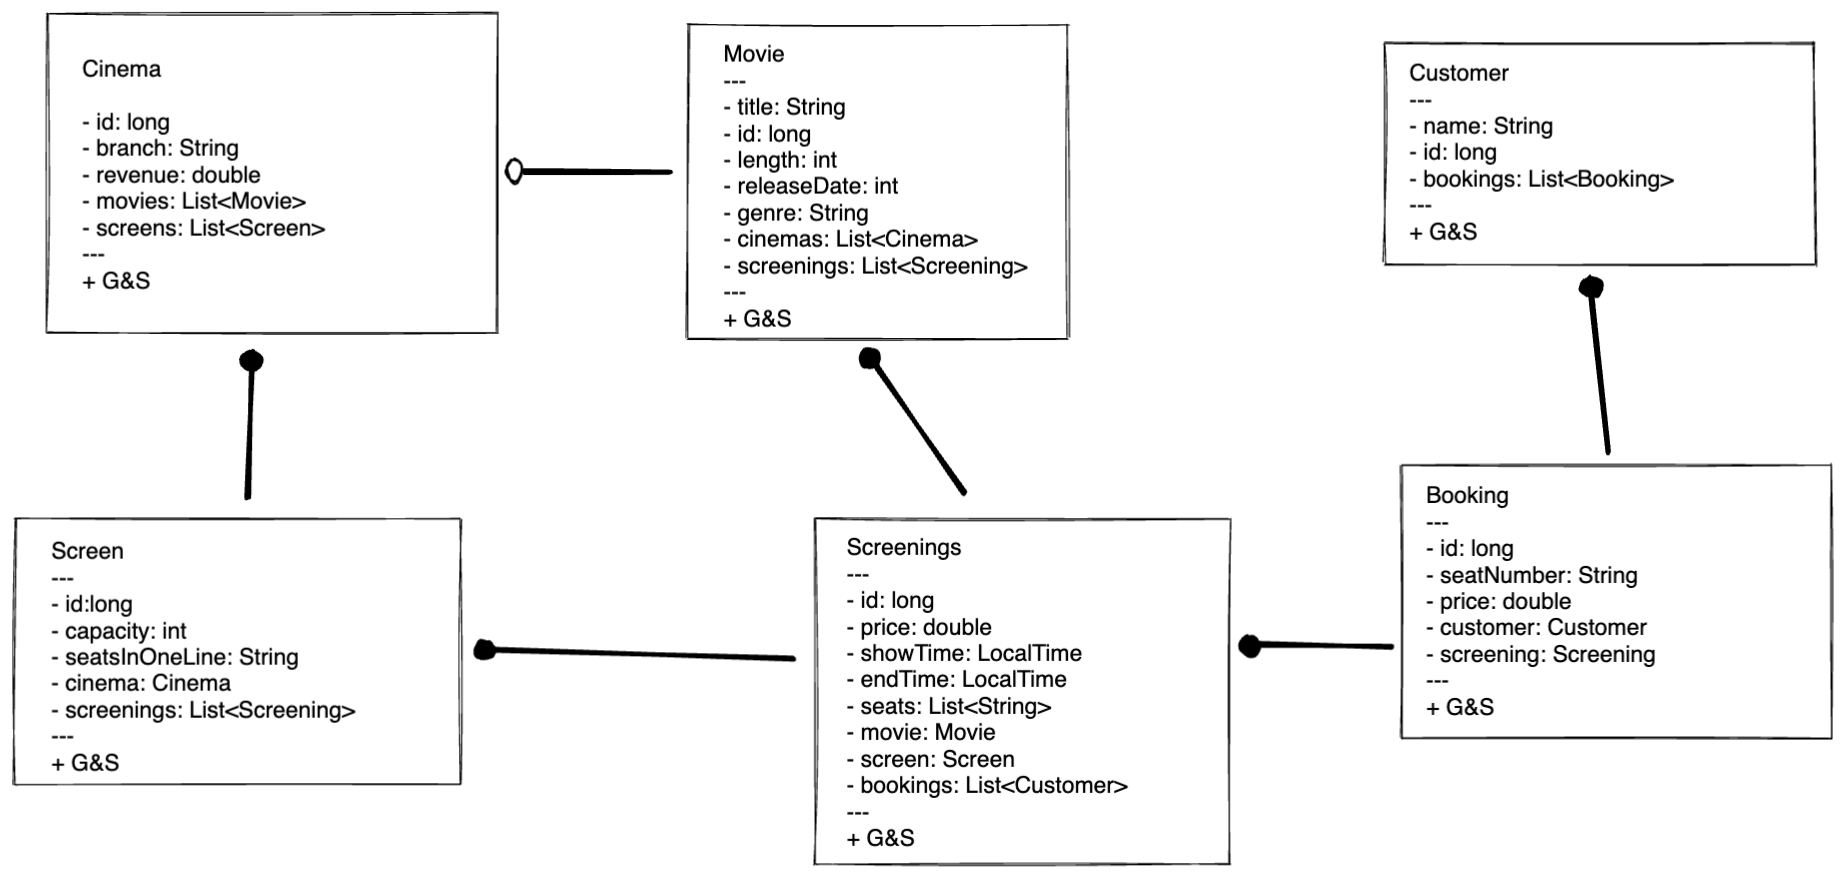
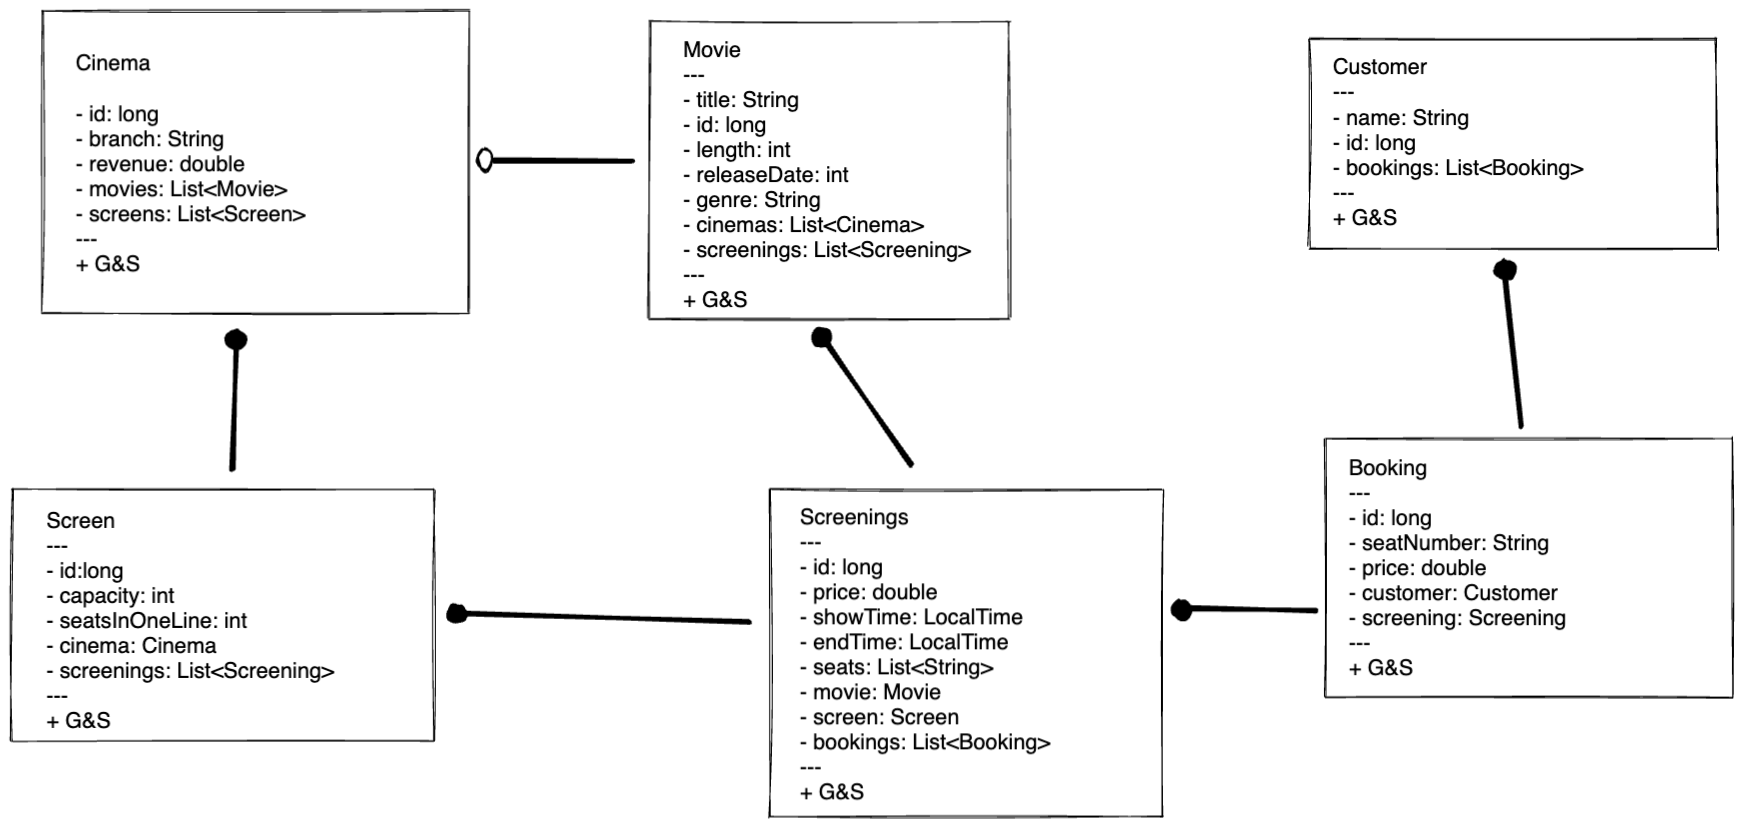
debug

diff --git a/README.md b/README.md
@@ -91,9 +91,10 @@ It includes 5x models classes:
 
 What Yongran has expanded on this API:
 
+- Handle multiple cinemas with different branches
 - Change `Cinema` and `Movie` relationship to many-to-many
 - Add `showTime` and `endTime` properties in `Screening` model
-- Create `Booking` model to handle price for a ticket and seats
+- Create `Booking` model to handle seats and price for a ticket
 - Add `revenue` property in cinema
 - Ticket Authentication
 
@@ -112,10 +113,11 @@ Notes:
 | `.../cinemas` |`GET` | Get All Cinemas |
 |`.../cinemas/{id}`| `GET` | Get Cinema By ID |
 |`.../cinemas/branch/{branch}`| `GET` | Get Cinema By Branch |
-|`.../cinemas/movies` |`GET` | Get All Movies  |
-|`.../cinemas/movies/{id}`|`GET`| Get Movie By ID|
+|`.../cinemas/{id}/movies` |`GET` | Get All Movies  |
+|`.../cinemas/{id}/movies/{movieId}`|`GET`| Get Movie By ID|
 |`.../cinemas/{id}/movies?genre={genre}`|`GET`| Get Movie By Genre |
 |`.../cinemas/{id}/movies?title={title}`|`GET`| Get Movie By Title|
+|`.../cinemas/{id}/screens`|`GET`| Get All Screens by Cinema ID |
 |`.../cinemas/{id}/revenue`|`GET`| Get Total Revenue |
 |`.../cinemas/{cinemaId}/authentication/{movieId}?customerId={customerId}&screeningId={screeningId}&seat={seat}`|`GET`| Authenticate Ticket |
 | `.../cinemas/{id}/movies/{movieId}`  | `DELETE`  | Cancel Movie  |
@@ -129,16 +131,16 @@ Notes:
 | `.../screens` | `GET` | Get All Screens 
 | `.../screens/{id}?cinemaId={cinemaId}` | `GET` | Get Screen By ID |
 | `.../screens/{screenId}/screenings` | `GET` | Get All Screenings |
-| `.../screens/{id}/screenings?cinemaId={cinemaId}` | `GET` | Get Screening By ID |
+| `.../screens/{screenId}/screenings/{id}?cinemaId={cinemaId}` | `GET` | Get Screening By ID |
 | `.../screens/screenings/{id}/bookings`  | `GET`  | Get All Bookings By Screening ID |
 | `.../screens/{screenId}/screenings/{screenId}/seats?cinemaId={cinemaId}`  | `GET`  | Get All Occupied Seats By Screening ID |
 | `.../screens` | `POST` | Create New Screen |
-| `.../screens/{screenId}?screeningId={screeningId}?cinemaId={cinemaId}` | `POST` | Create/Add Existed Screening To Screen |
+| `.../screens/{screenId}?screeningId={screeningId}&cinemaId={cinemaId}` | `POST` | Create/Add Existed Screening To Screen |
 | `.../screens/{screenId}/screenings?cinemaId={cinemaId}` | `POST` | Create New Screening To Screen |
-| `.../screens/{screenId}/screenings/{screeningId}/customers/{customerId}?cinemaId={cinemaId}&seat={seat}` | `POST` | Add New Customer To Screening |
-| `.../screens/{screenId}/screenings/{screeningId}/movies/{movieId}?cinemaId={cinemaId}` | `POST` | Add New Movie To Screening |
+| `.../screens/{screenId}/screenings/{screeningId}/customers/{customerId}?cinemaId={cinemaId}&seat={seat}` | `POST` | Add Customer To Screening |
+| `.../screens/{screenId}/screenings/{screeningId}/movies/{movieId}?cinemaId={cinemaId}` | `POST` | Add Movie To Screening |
 | `.../screens/{screenId}?cinemaId={cinemaId}&screeningId={screeningId}` | `DELETE` | Delete Screening By ID |
-| `.../screens/{screenId}?cinemaId={cinemaId}&screeningId={screeningId}?movieId={movieId}` | `DELETE` | Delete Movie By ID |
+| `.../screens/{screenId}?cinemaId={cinemaId}&screeningId={screeningId}&movieId={movieId}` | `DELETE` | Delete Movie By ID |
 
 
 ## Further Extensions
